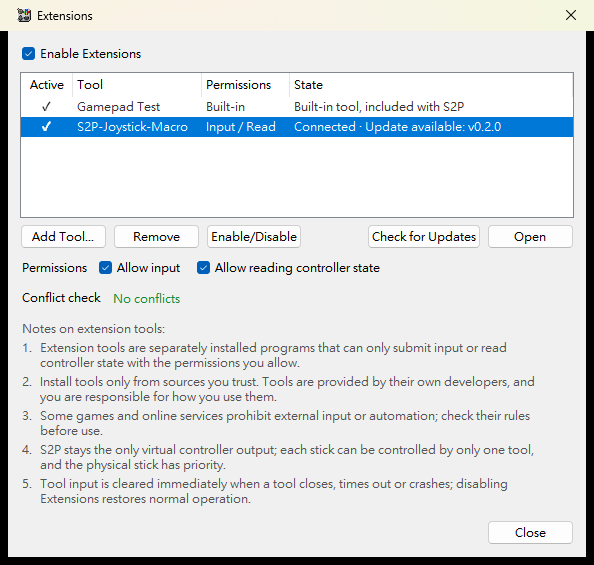
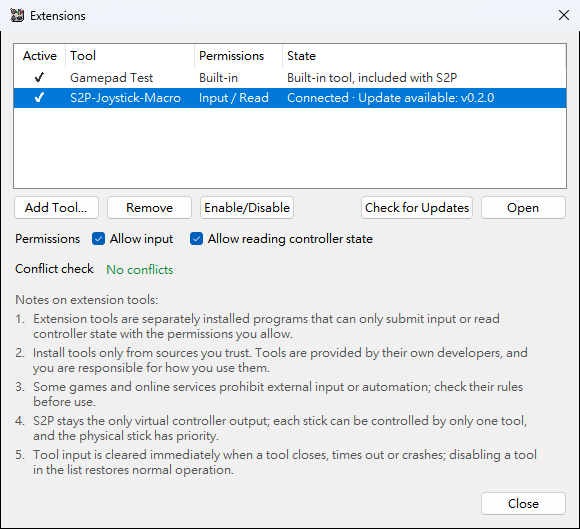
Follow S2P's removal of the Enable Extensions switch
- Guides and READMEs: adding a tool enables it in the list; there is no
  switch to check. The conflict check section lists everything S2P now
  checks.
- New screenshot of S2P's Extensions window.
- Integration tests and the timing script build ExtensionSettings from the
  tool list only.

Changed region(s): [[0.0, 0.0, 1.0, 0.9981]]

diff --git a/scripts/measure_playback_timing.py b/scripts/measure_playback_timing.py
@@ -170,7 +170,7 @@ def play_through_s2p(rate_hz, plan):
                                       pipe_name=pipe)
     manager.launch_tool = lambda tool_id, reopen=False, background=False: True
     manager._launch_tokens[TOKEN] = "macro"
-    manager.apply(bridge.ExtensionSettings(True, (
+    manager.apply(bridge.ExtensionSettings((
         bridge.ToolSettings("macro", r"C:\S2P-Joystick-Macro.exe"),
     )))
     loop = ReportLoop(manager._hub, rate_hz)

diff --git a/tests/test_s2p_integration.py b/tests/test_s2p_integration.py
@@ -44,7 +44,7 @@ class S2PIntegrationTests(unittest.TestCase):
         self.addCleanup(self.manager.close)
 
     def enable(self, **options):
-        self.manager.apply(self.bridge.ExtensionSettings(True, (
+        self.manager.apply(self.bridge.ExtensionSettings((
             self.bridge.ToolSettings("macro", r"C:\S2P-Joystick-Macro.exe", **options),
         )))
 

diff --git a/manual/USER_GUIDE.md b/manual/USER_GUIDE.md
@@ -62,11 +62,11 @@ Keep the existing data files in each tool folder (for S2P-Joystick-Macro:
 
 ### 2.1 Add and enable a tool
 
-1. In S2P-XInput-Lite, select **Extensions** at the bottom of the main window
-   and check **Enable Extensions**.
+1. In S2P-XInput-Lite, select **Extensions** at the bottom of the main window.
 2. Select **Add Tool...** and choose the tool's EXE, for example
-   `S2P-Joystick-Macro\S2P-Joystick-Macro.exe`. You can add several tools; up
-   to 4 can be enabled at the same time.
+   `S2P-Joystick-Macro\S2P-Joystick-Macro.exe`. A new tool is enabled in the
+   list right away. You can add several tools; up to 4 can be enabled at the
+   same time.
 3. Select the tool in the list and set its **Permissions** (see 2.2).
 4. Select **Open** to show the tool's window.
 
@@ -86,14 +86,26 @@ After a permission change the tool reconnects by itself.
 
 ### 2.3 Conflict check
 
-**Conflict check** lists the same EXE added twice, more than 4 enabled tools,
-a tool without any permission, and two tools that want the same stick.
+**Conflict check** lists every problem that keeps a tool from working as
+expected:
+
+- In the settings: the same EXE added twice, more than 4 enabled tools, or a
+  tool without any permission.
+- While tools run: a tool that was refused a stick because another tool
+  controls it (listed until that tool releases the stick), a tool that asks
+  for a permission you have not allowed, a second copy of a running tool,
+  a program that is not in the list trying to connect, and another program
+  holding S2P's pipe.
+
+Running tools are checked only while the S2P connection runs. Buttons and
+triggers never conflict: buttons are combined and triggers take the
+larger value.
 
 ### 2.4 Connection states
 
 | State in S2P | Meaning |
 |---|---|
-| **Disabled** | Extensions or this tool is not enabled. |
+| **Disabled** | This tool is disabled in the list. |
 | **Waiting for connection** | S2P is waiting for the tool. Also shown while the S2P connection is not running. |
 | **Connected** | The tool is connected. "input timed out" means the tool was silent for over 1 s and its input was cleared. |
 | **Disconnected** | The tool closed. |
@@ -146,7 +158,7 @@ gyro and button mapping keep working as before.
 
 | Problem | What to do |
 |---|---|
-| The tool says **Waiting for S2P-XInput-Lite…** | Make sure S2P-XInput-Lite v0.8.2 or later is running, its connection is started, and **Enable Extensions** is checked. |
+| The tool says **Waiting for S2P-XInput-Lite…** | Make sure S2P-XInput-Lite v0.8.2 or later is running, its connection is started, and the tool is enabled in the Extensions list. |
 | **unauthorized** | Add this exact EXE in S2P's Extensions window. A copy in another folder counts as a different tool. |
 | **another extension tool controls the same stick** | Another enabled tool claimed that stick. Disable one of them or let one tool control the stick. |
 | **S2P granted no permission** | Check at least one permission for the tool in S2P. |
@@ -154,7 +166,7 @@ gyro and button mapping keep working as before.
 | **another copy of this tool is running** | Close the other copy, or use the one that is already running. |
 | **incompatible protocol version** | Update S2P-XInput-Lite and the tool to matching releases. |
 | A feature needs reading but nothing happens | Check **Allow reading controller state** for the tool in S2P. |
-| Input gets stuck or a game behaves oddly | Close the tool or uncheck **Enable Extensions** in S2P; S2P clears all tool input at once. |
+| Input gets stuck or a game behaves oddly | Close the tool or disable it in S2P's Extensions list; S2P clears its input at once. |
 
 ## 6. Responsibility
 

diff --git a/release/README.md b/release/README.md
@@ -23,9 +23,9 @@ The user guides are online:
 
 1. Put the whole `S2P-Extensions` folder anywhere. Each tool keeps its
    settings in its own folder.
-2. In S2P-XInput-Lite, open **Extensions**, check **Enable Extensions**, select
-   **Add Tool...**, and choose the tool's EXE. Up to 4 tools can be enabled at
-   the same time.
+2. In S2P-XInput-Lite, open **Extensions**, select **Add Tool...**, and choose
+   the tool's EXE; it is enabled in the list right away. Up to 4 tools can be
+   enabled at the same time.
 3. Grant the permissions the tool needs under **Permissions**, then choose
    **Open**.
 4. Enabled tools start in the background when the S2P connection starts, and

diff --git a/release/README_zh-TW.md b/release/README_zh-TW.md
@@ -19,7 +19,7 @@
 ## 使用方式
 
 1. 把整個 `S2P-Extensions` 資料夾放在任意位置（各工具的設定會存在自己的資料夾內）。
-2. 開啟 S2P-XInput-Lite →「擴充工具」，勾選「啟用擴充工具」，按「新增工具...」選擇要用的工具 EXE。
+2. 開啟 S2P-XInput-Lite →「擴充工具」，按「新增工具...」選擇要用的工具 EXE，加入後即在清單中啟用。
    最多可同時啟用 4 個工具。
 3. 依各工具說明在「權限」勾選需要的權限，再按「開啟」。
 4. 已啟用的工具會在 S2P 連線開始時自動於背景啟動；關閉 S2P 時，工具也會一起關閉。

diff --git a/macro/README.md b/macro/README.md
@@ -23,8 +23,8 @@ own and does not modify S2P.
 
 1. Put `S2P-Joystick-Macro.exe` in any folder. Macros and settings are kept
    next to it in `macros\` and `settings.json`.
-2. In S2P-XInput-Lite, open **Extensions**, check **Enable Extensions**, select
-   **Add Tool...**, and choose `S2P-Joystick-Macro.exe`.
+2. In S2P-XInput-Lite, open **Extensions**, select **Add Tool...**, and
+   choose `S2P-Joystick-Macro.exe`. It is enabled in the list right away.
 3. To record, select it in the list and check **Allow reading controller
    state** under **Permissions** (off by default). The tool reconnects by
    itself after a permission change.
